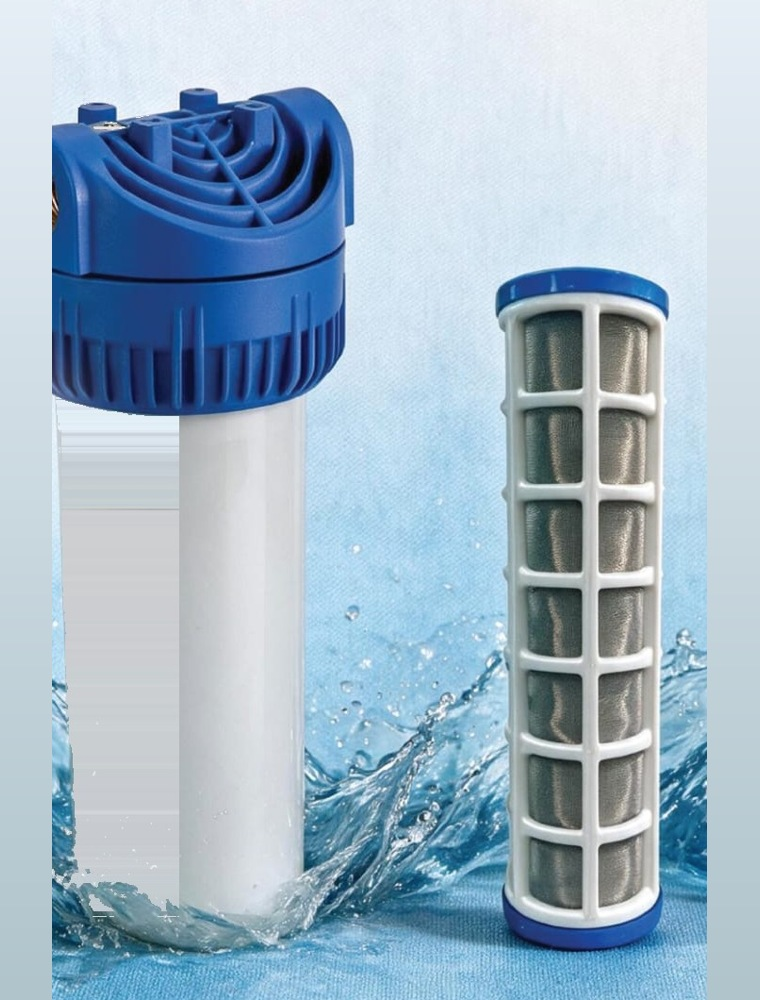
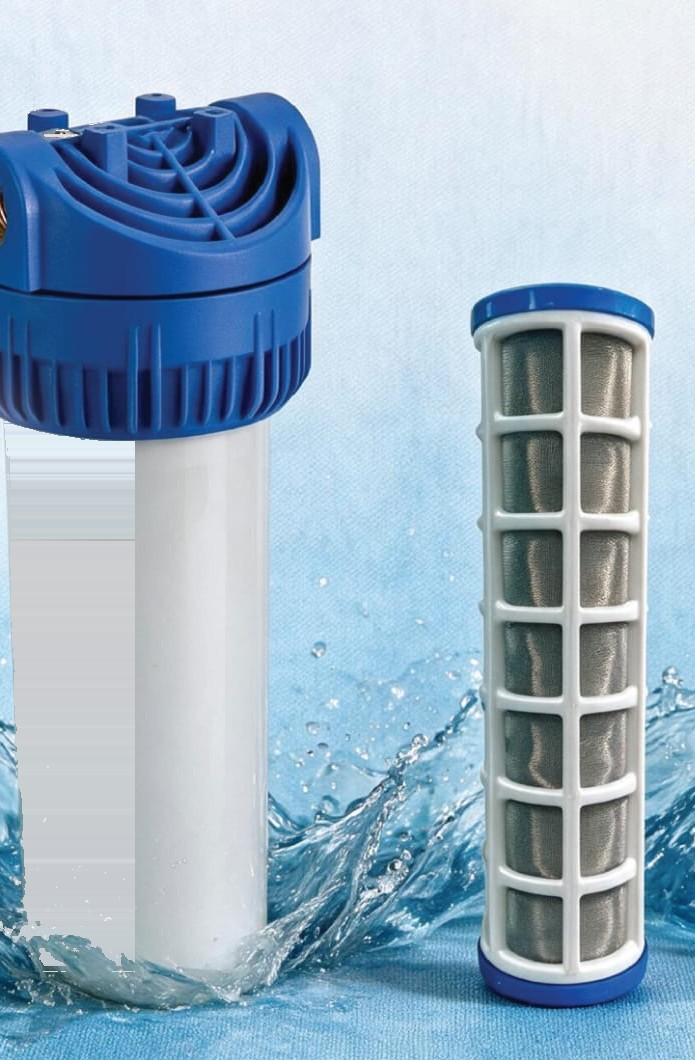
Fix product images: never crop — use object-fit: contain with uniform frame; restore original uncropped photos

diff --git a/src/App.css b/src/App.css
@@ -411,14 +411,15 @@ a.line:hover { color: #7fd4f5; }
 }
 .model-card:hover { transform: translateY(-6px); box-shadow: var(--shadow); border-color: var(--c-primary-soft-2); }
 .model-media {
-  position: relative; width: 100%; aspect-ratio: 76 / 100; overflow: hidden;
-  background: #eef5fb; border: 0; cursor: zoom-in; display: block;
+  position: relative; width: 100%; aspect-ratio: 3 / 4; overflow: hidden;
+  background: #eaf3f9; border: 0; cursor: zoom-in; display: block;
 }
-/* Image matches the frame's aspect ratio and covers it fully — no empty gaps,
-   product prominent, sides are the image's own water background. */
+/* The complete product photo is always shown — never cropped. `contain` fits
+   the whole image inside the uniform frame regardless of its natural aspect
+   ratio; the light backdrop fills any letterbox cleanly. */
 .model-media img {
-  width: 100%; height: 100%; object-fit: cover; display: block;
-  transition: transform .25s ease;
+  width: 100%; height: 100%; object-fit: contain; display: block;
+  padding: 6px; transition: transform .25s ease;
 }
 .model-media:hover img { transform: scale(1.045); }
 .zoom-hint {
